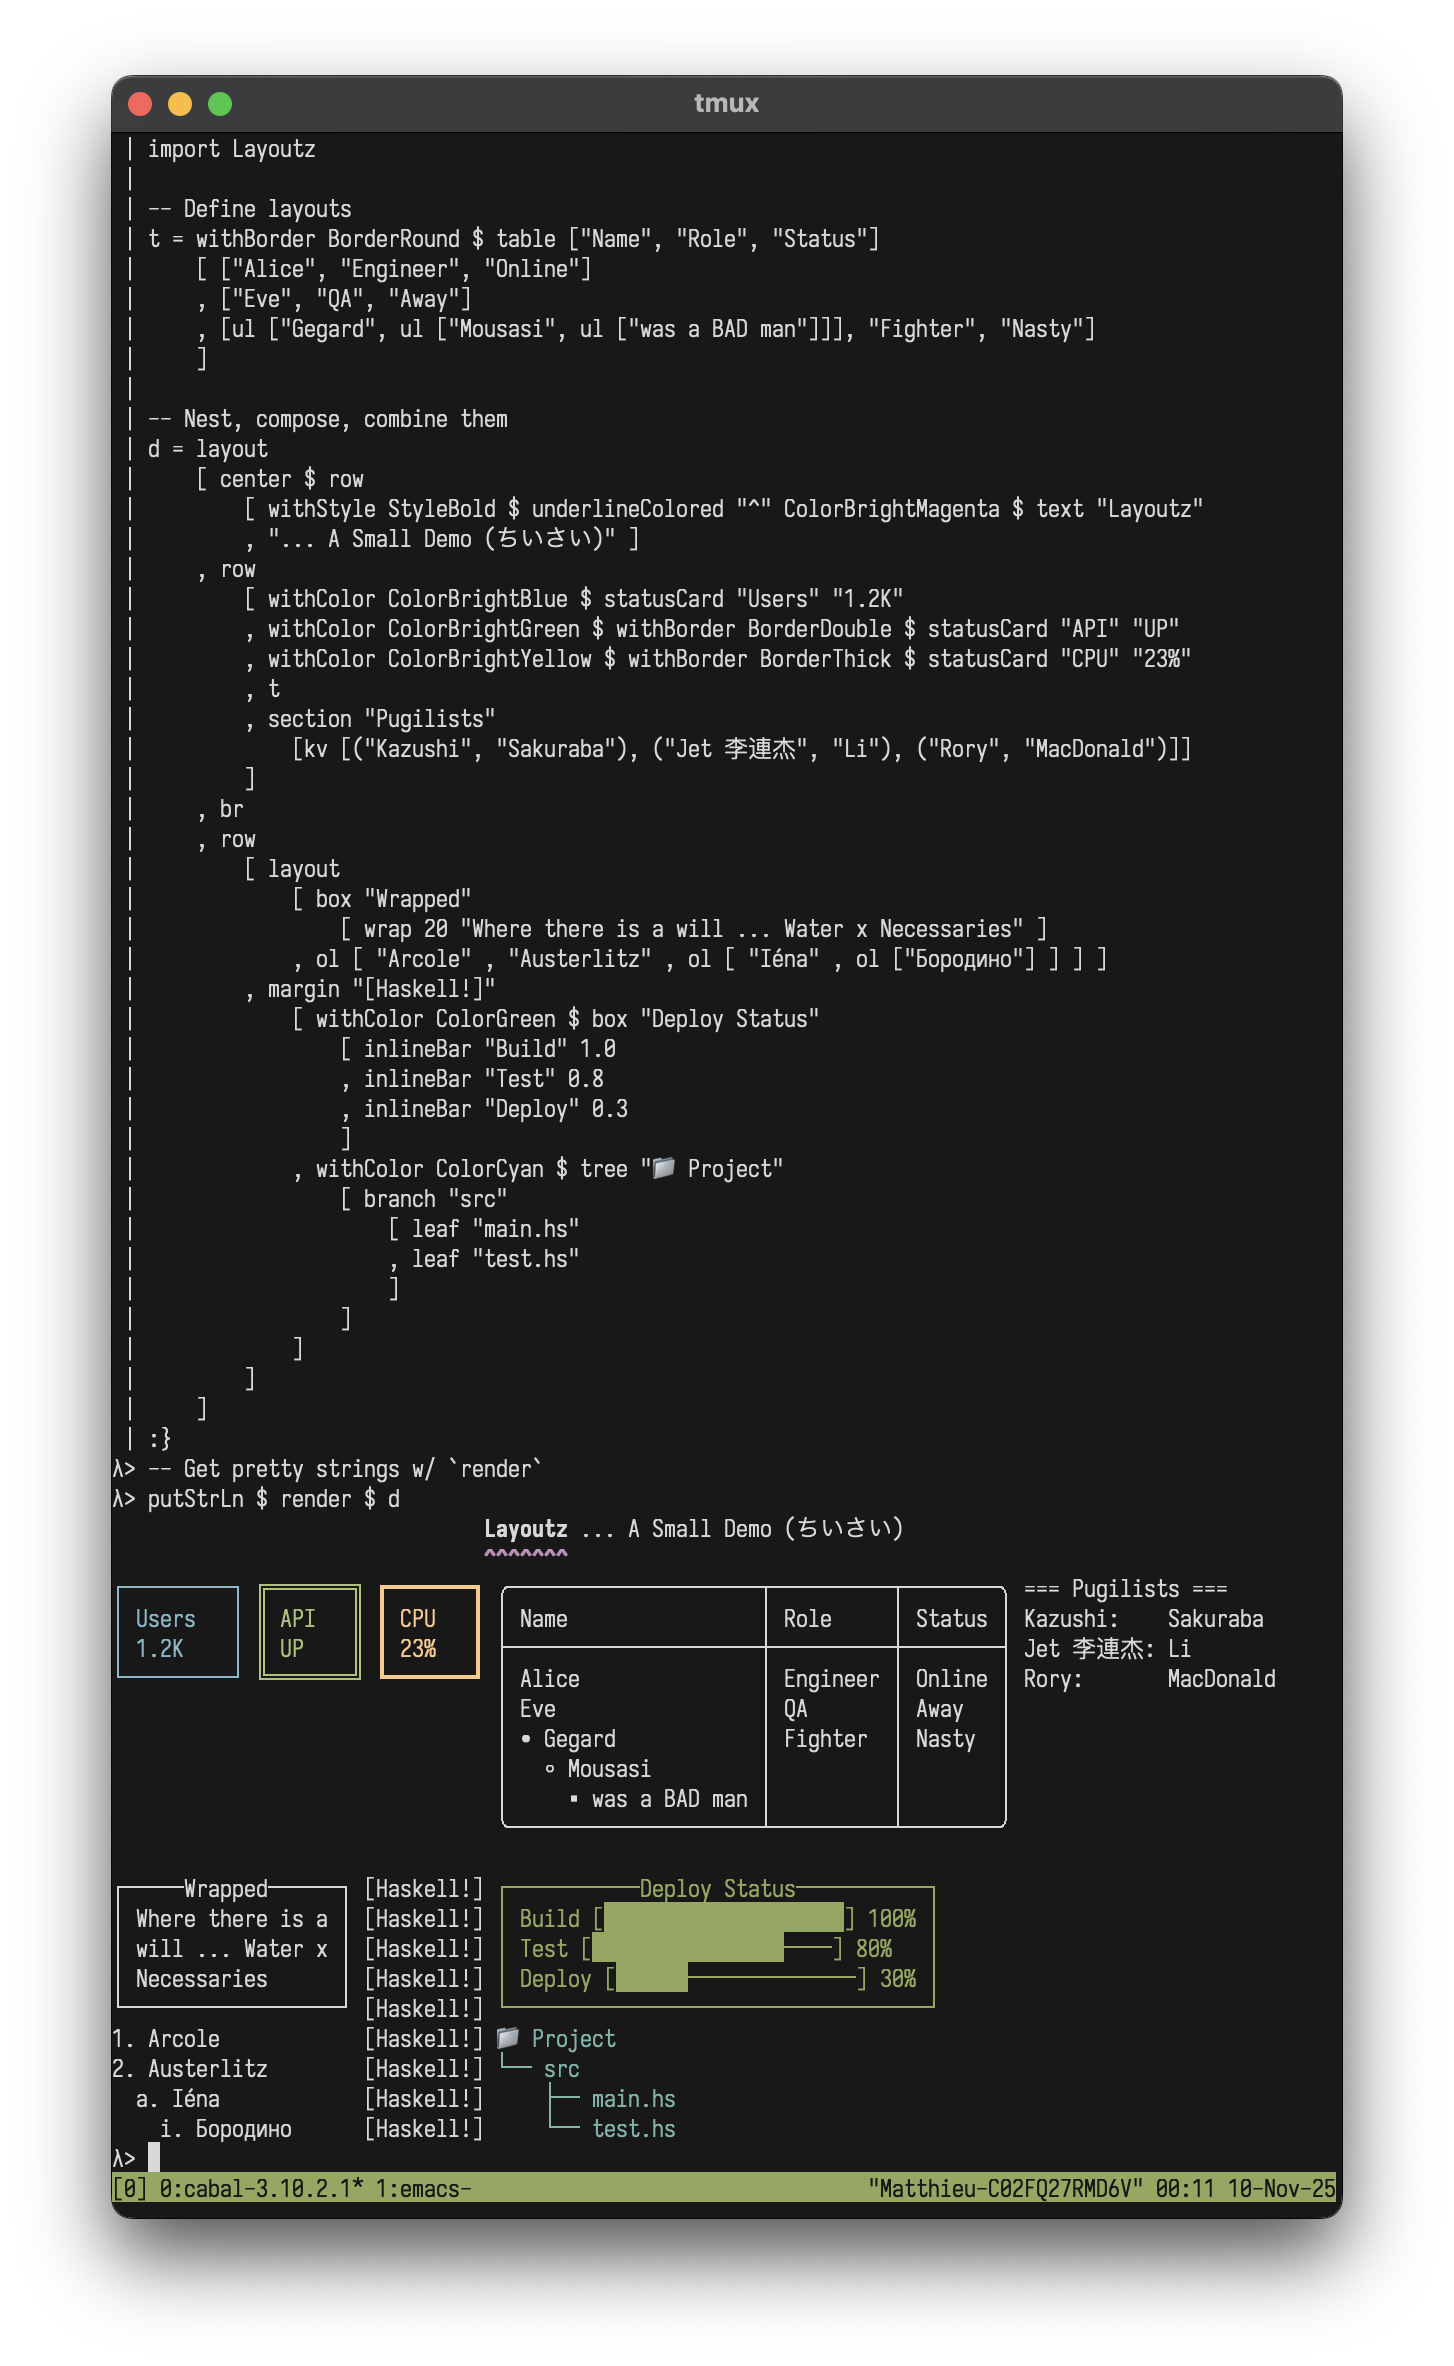
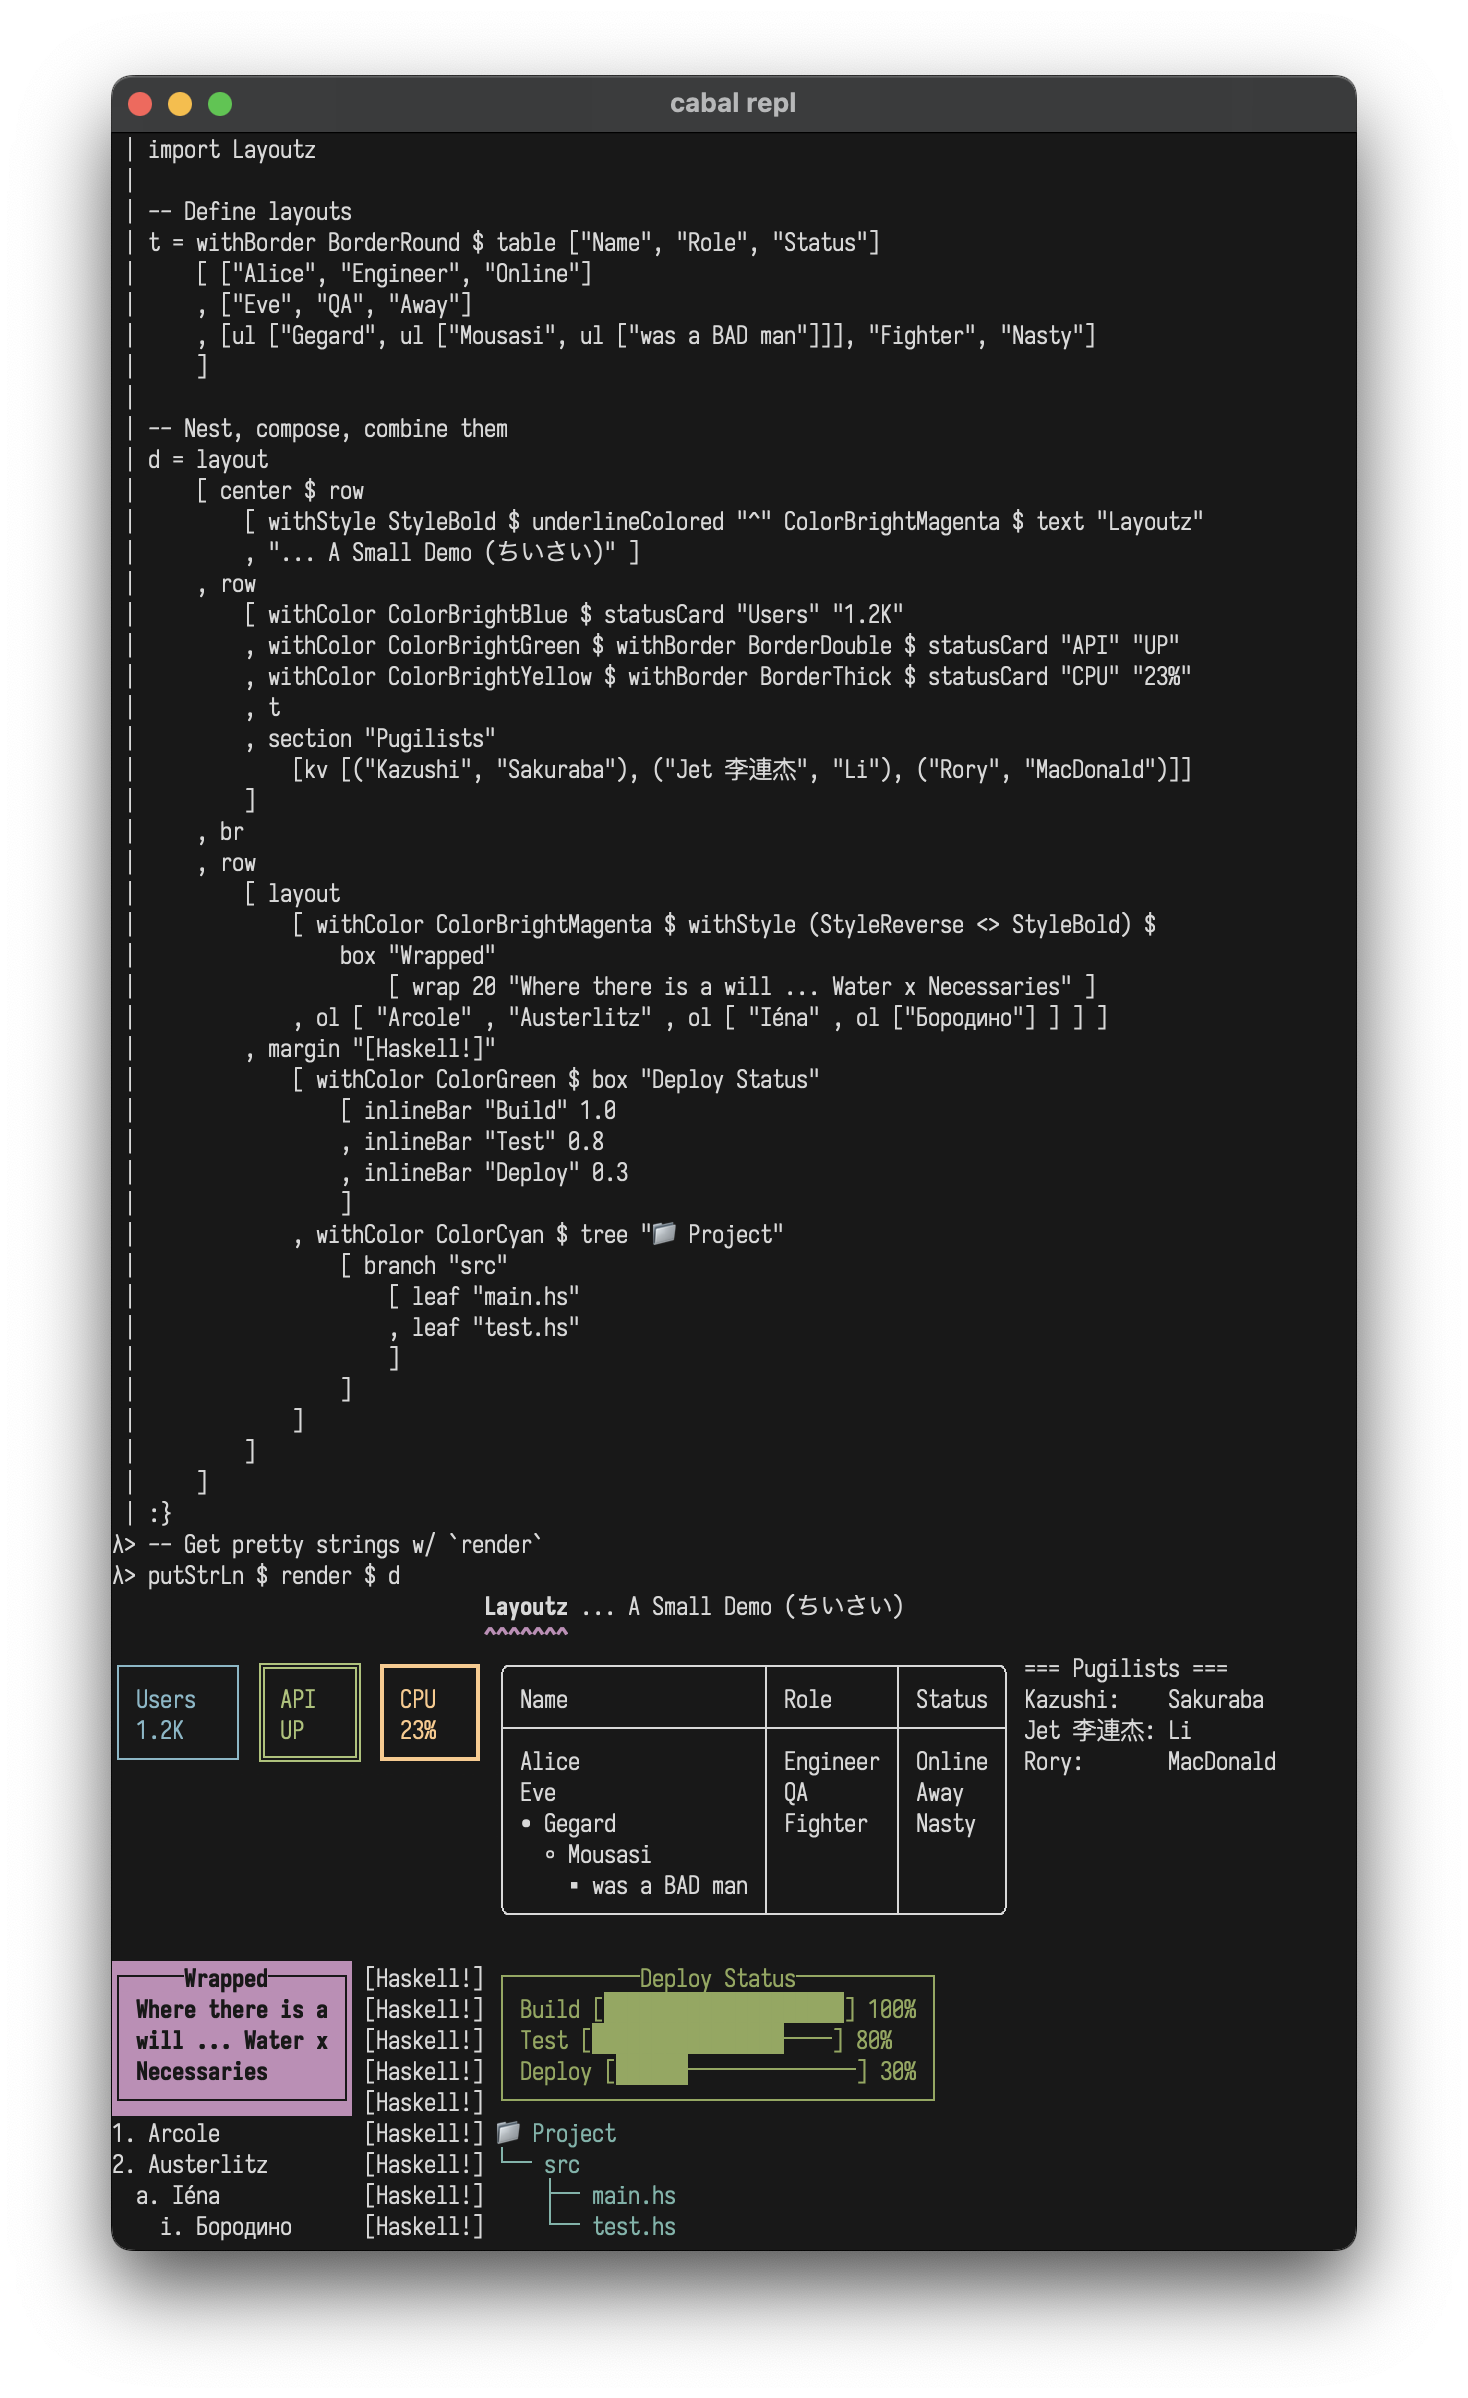
composable haskell styles <> + scala / readme updates

diff --git a/layoutz-hs/README.md b/layoutz-hs/README.md
@@ -152,9 +152,14 @@ row
   , layout ["Right", "Column"]
   ]
 ```
+
+### Tight Row: `tightRow`
+Like `row`, but with no spacing between elements (useful for gradients and progress bars):
+```haskell
+tightRow [withColor ColorRed $ text "█", withColor ColorGreen $ text "█", withColor ColorBlue $ text "█"]
 ```
-Left   Middle Right 
-Column Column Column
+```
+███
 ```
 
 ### Text alignment: `alignLeft`, `alignRight`, `alignCenter`, `justify`
@@ -477,28 +482,93 @@ withBorder BorderNone $ box "Info" ["content"]
 
 ## Colors (ANSI Support)
 
-```haskell
-withColor ColorRed $ text "Error!"
-withColor ColorGreen $ statusCard "Status" "OK"
-underlineColored "=" ColorRed $ text "Section Title"
-```
+Add ANSI colors to any element:
 
-**Colors:**
+```haskell
+layout[
+  withColor ColorRed $ text "The quick brown fox...",
+  withColor ColorBrightCyan $ text "The quick brown fox...",
+  underlineColored "~" ColorRed $ text "The quick brown fox...",
+  margin "[INFO]" [withColor ColorCyan $ text "The quick brown fox..."]
+]
+```
+<p align="center">
+  <img src="https://raw.githubusercontent.com/mattlianje/layoutz/refs/heads/master/layoutz-hs/pix/layoutz-color-2.png" width="700">
+</p>
+
+
+**Standard Colors:**
 - `ColorBlack` `ColorRed` `ColorGreen` `ColorYellow` `ColorBlue` `ColorMagenta` `ColorCyan` `ColorWhite`
 - `ColorBrightBlack` `ColorBrightRed` `ColorBrightGreen` `ColorBrightYellow` `ColorBrightBlue` `ColorBrightMagenta` `ColorBrightCyan` `ColorBrightWhite`
 - `ColorNoColor` *(for conditional formatting)*
 
-## Styles (ANSI Support)
+**Extended Colors:**
+- `ColorFull n` - 256-color palette (0-255)
+- `ColorTrue r g b` - 24-bit RGB true color
+
+### Color Gradients
+
+Create beautiful gradients with extended colors:
 
 ```haskell
-withStyle StyleBold $ text "Important"
-withColor ColorRed $ withStyle StyleBold $ text "Critical Error"
+let palette = tightRow $ map (\i -> withColor (ColorFull i) $ text "█") [16, 18..231]
+    redToBlue = tightRow $ map (\i -> withColor (ColorTrue i 100 (255 - i)) $ text "█") [0, 4..255]
+    greenFade = tightRow $ map (\i -> withColor (ColorTrue 0 (255 - i) i) $ text "█") [0, 4..255]
+    rainbow = tightRow $ map colorBlock [0, 4..255]
+      where
+        colorBlock i =
+          let r = if i < 128 then i * 2 else 255
+              g = if i < 128 then 255 else (255 - i) * 2
+              b = if i > 128 then (i - 128) * 2 else 0
+          in withColor (ColorTrue r g b) $ text "█"
+
+putStrLn $ render $ layout [palette, redToBlue, greenFade, rainbow]
 ```
+
+<p align="center">
+  <img src="https://raw.githubusercontent.com/mattlianje/layoutz/refs/heads/master/layoutz-hs/pix/layoutz-color-1.png" width="700">
+</p>
+
+
+## Styles (ANSI Support)
+
+Add ANSI styles to any element:
+
+```haskell
+layout[
+  withStyle StyleBold $ text "The quick brown fox...",
+  withColor ColorRed $ withStyle StyleBold $ text "The quick brown fox...",
+  withStyle StyleReverse $ withStyle StyleItalic $ text "The quick brown fox..."
+]
+```
+<p align="center">
+  <img src="https://raw.githubusercontent.com/mattlianje/layoutz/refs/heads/master/layoutz-hs/pix/layoutz-styles-1.png" width="700">
+</p>
 
 **Styles:**
 - `StyleBold` `StyleDim` `StyleItalic` `StyleUnderline`
 - `StyleBlink` `StyleReverse` `StyleHidden` `StyleStrikethrough`
 - `StyleNoStyle` *(for conditional formatting)*
+
+**Combining Styles:**
+
+Use `<>` to combine multiple styles at once:
+
+```haskell
+layout[
+  withStyle (StyleBold <> StyleItalic <> StyleUnderline) $ text "The quick brown fox...",
+  withStyle (StyleBold <> StyleReverse) $ text "The quick brown fox..."
+]
+```
+<p align="center">
+  <img src="https://raw.githubusercontent.com/mattlianje/layoutz/refs/heads/master/layoutz-hs/pix/layoutz-styles-2.png" width="700">
+</p>
+
+You can also combine colors and styles:
+
+```haskell
+withColor ColorBrightYellow $ withStyle (StyleBold <> StyleItalic) $ text "The quick brown fox..."
+```
 
 ## Custom Components
 

diff --git a/README.md b/README.md
@@ -8,6 +8,29 @@
 Build declarative and composable sections, trees, tables, dashboards, and interactive Elm-style apps for your consoles. Part of [d4](https://github.com/mattlianje/d4)
 (Also in: [JavaScript](https://github.com/mattlianje/layoutz/tree/master/layoutz-ts), [Haskell](https://github.com/mattlianje/layoutz/tree/master/layoutz-hs))
 
+## Table of Contents
+- [Features](#features)
+- [Installation](#installation)
+- [Quickstart](#quickstart)
+- [Why layoutz?](#why-layoutz)
+- [Core Concepts](#core-concepts)
+- [Fluent API](#fluent-api)
+- [Elements](#elements)
+  - [Text, Sections, Layouts & Rows](#text-text)
+  - [Lists, Tables & Trees](#ordered-lists-ol)
+  - [Boxes, Cards & Borders](#box-box)
+  - [Progress Bars & Spinners](#progress-bar-inlinebar)
+  - [Charts & Formatting](#chart-chart)
+  - [Colors & Styles](#colors-color)
+  - [Custom Elements](#create-your-custom-elements)
+- [Text Formatting & Layout](#text-formatting--layout)
+- [Working with Collections](#working-with-collections)
+- [Interactive Apps](#interactive-apps)
+  - [LayoutzApp Architecture](#layoutzappstate-message)
+  - [Subscriptions & Commands](#subscriptions)
+  - [Examples](#complex-example)
+- [Inspiration](#inspiration)
+
 ## Features
 - Use **Layoutz.scala** like a header-file
 - Effortless composition of elements
